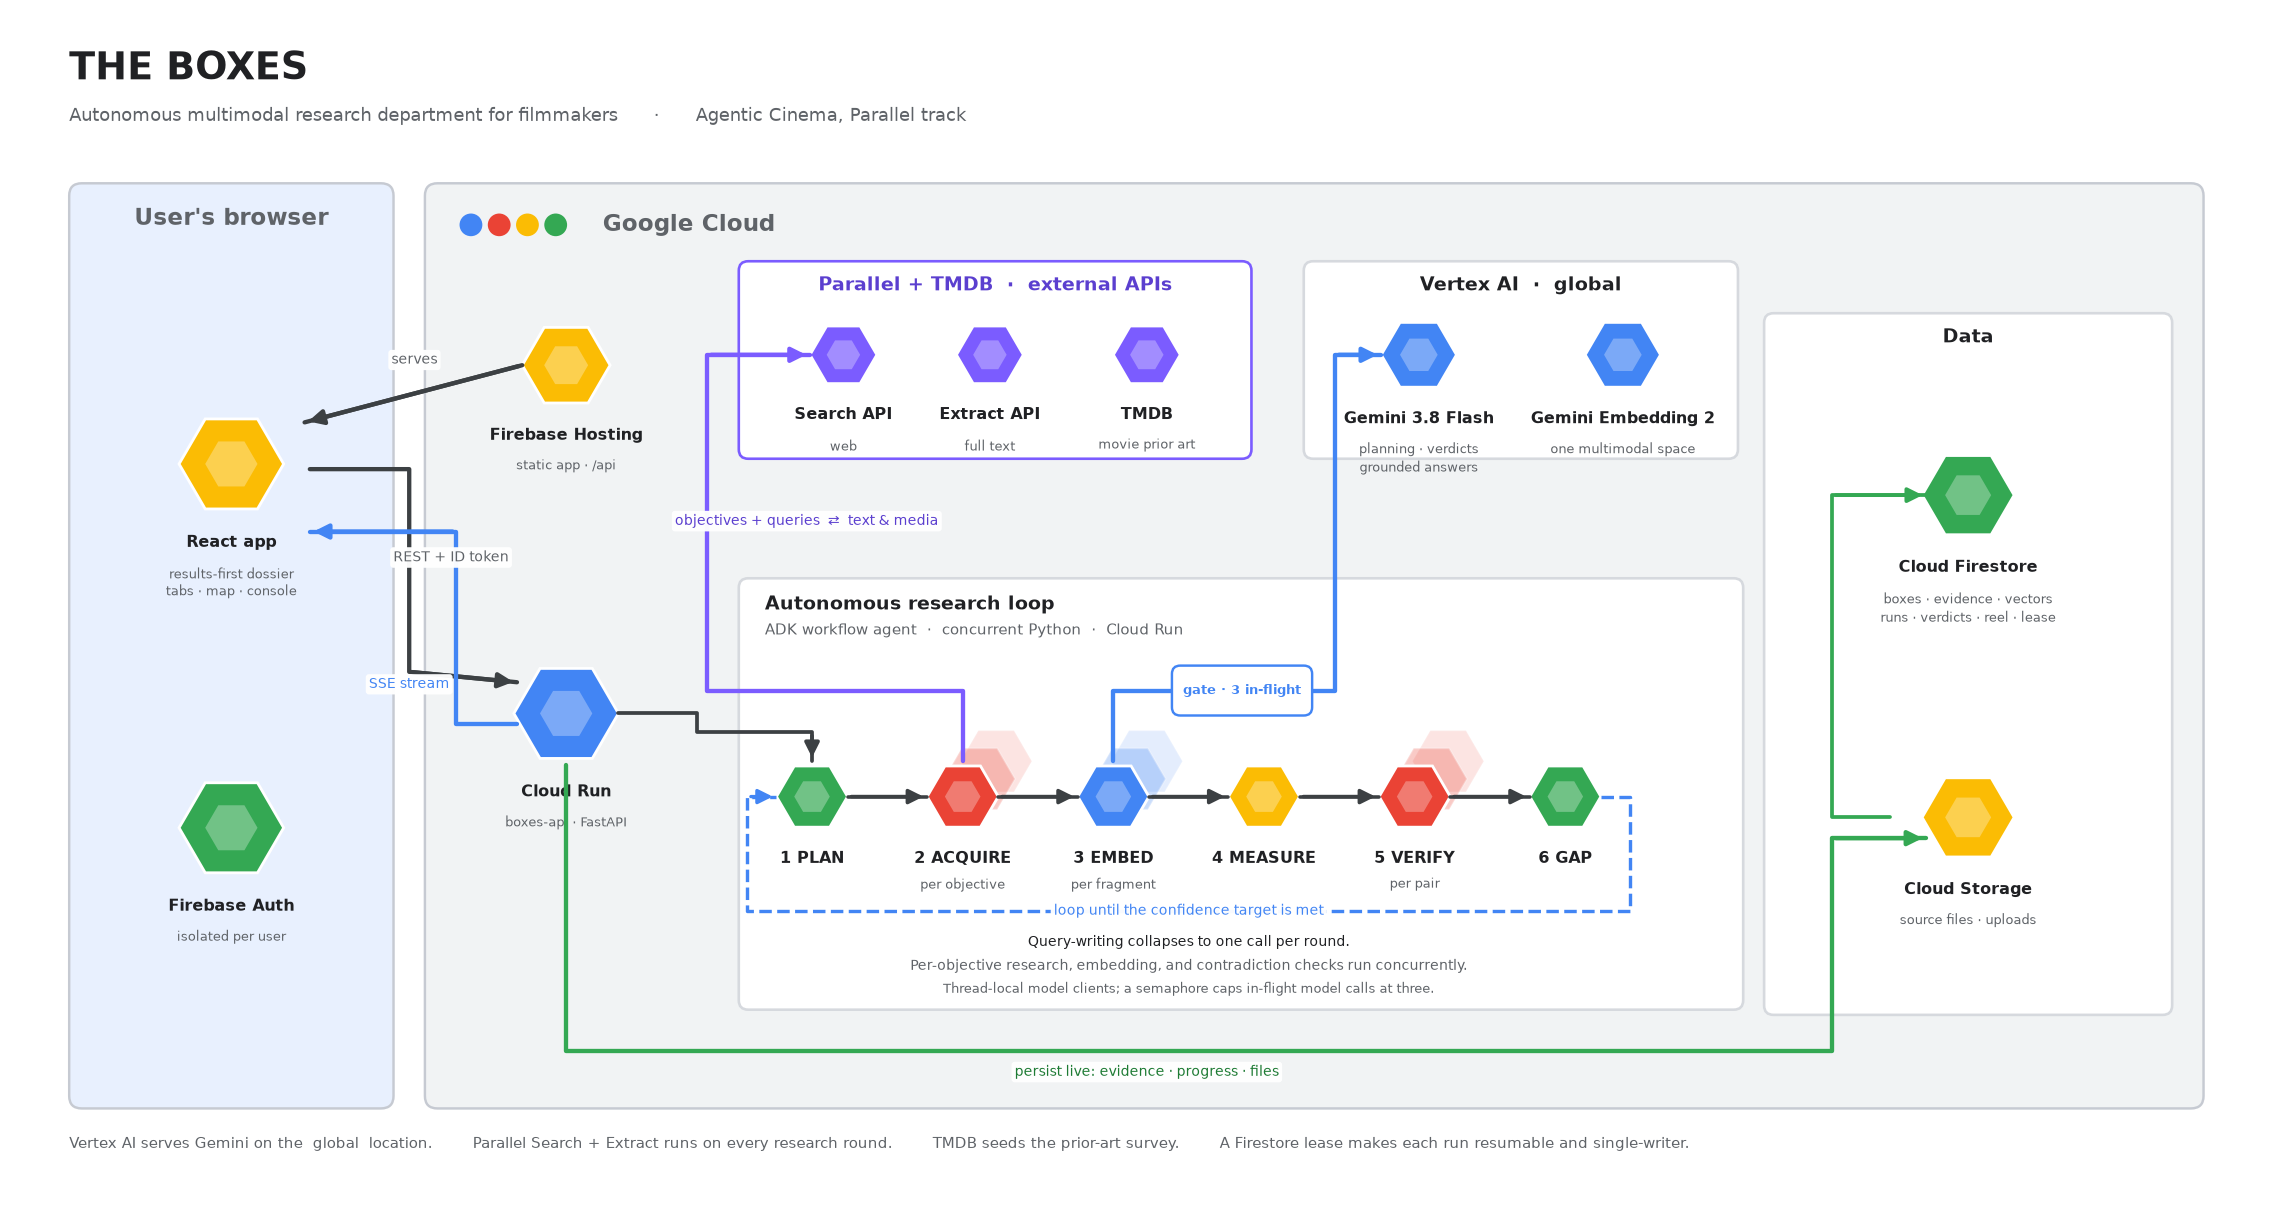
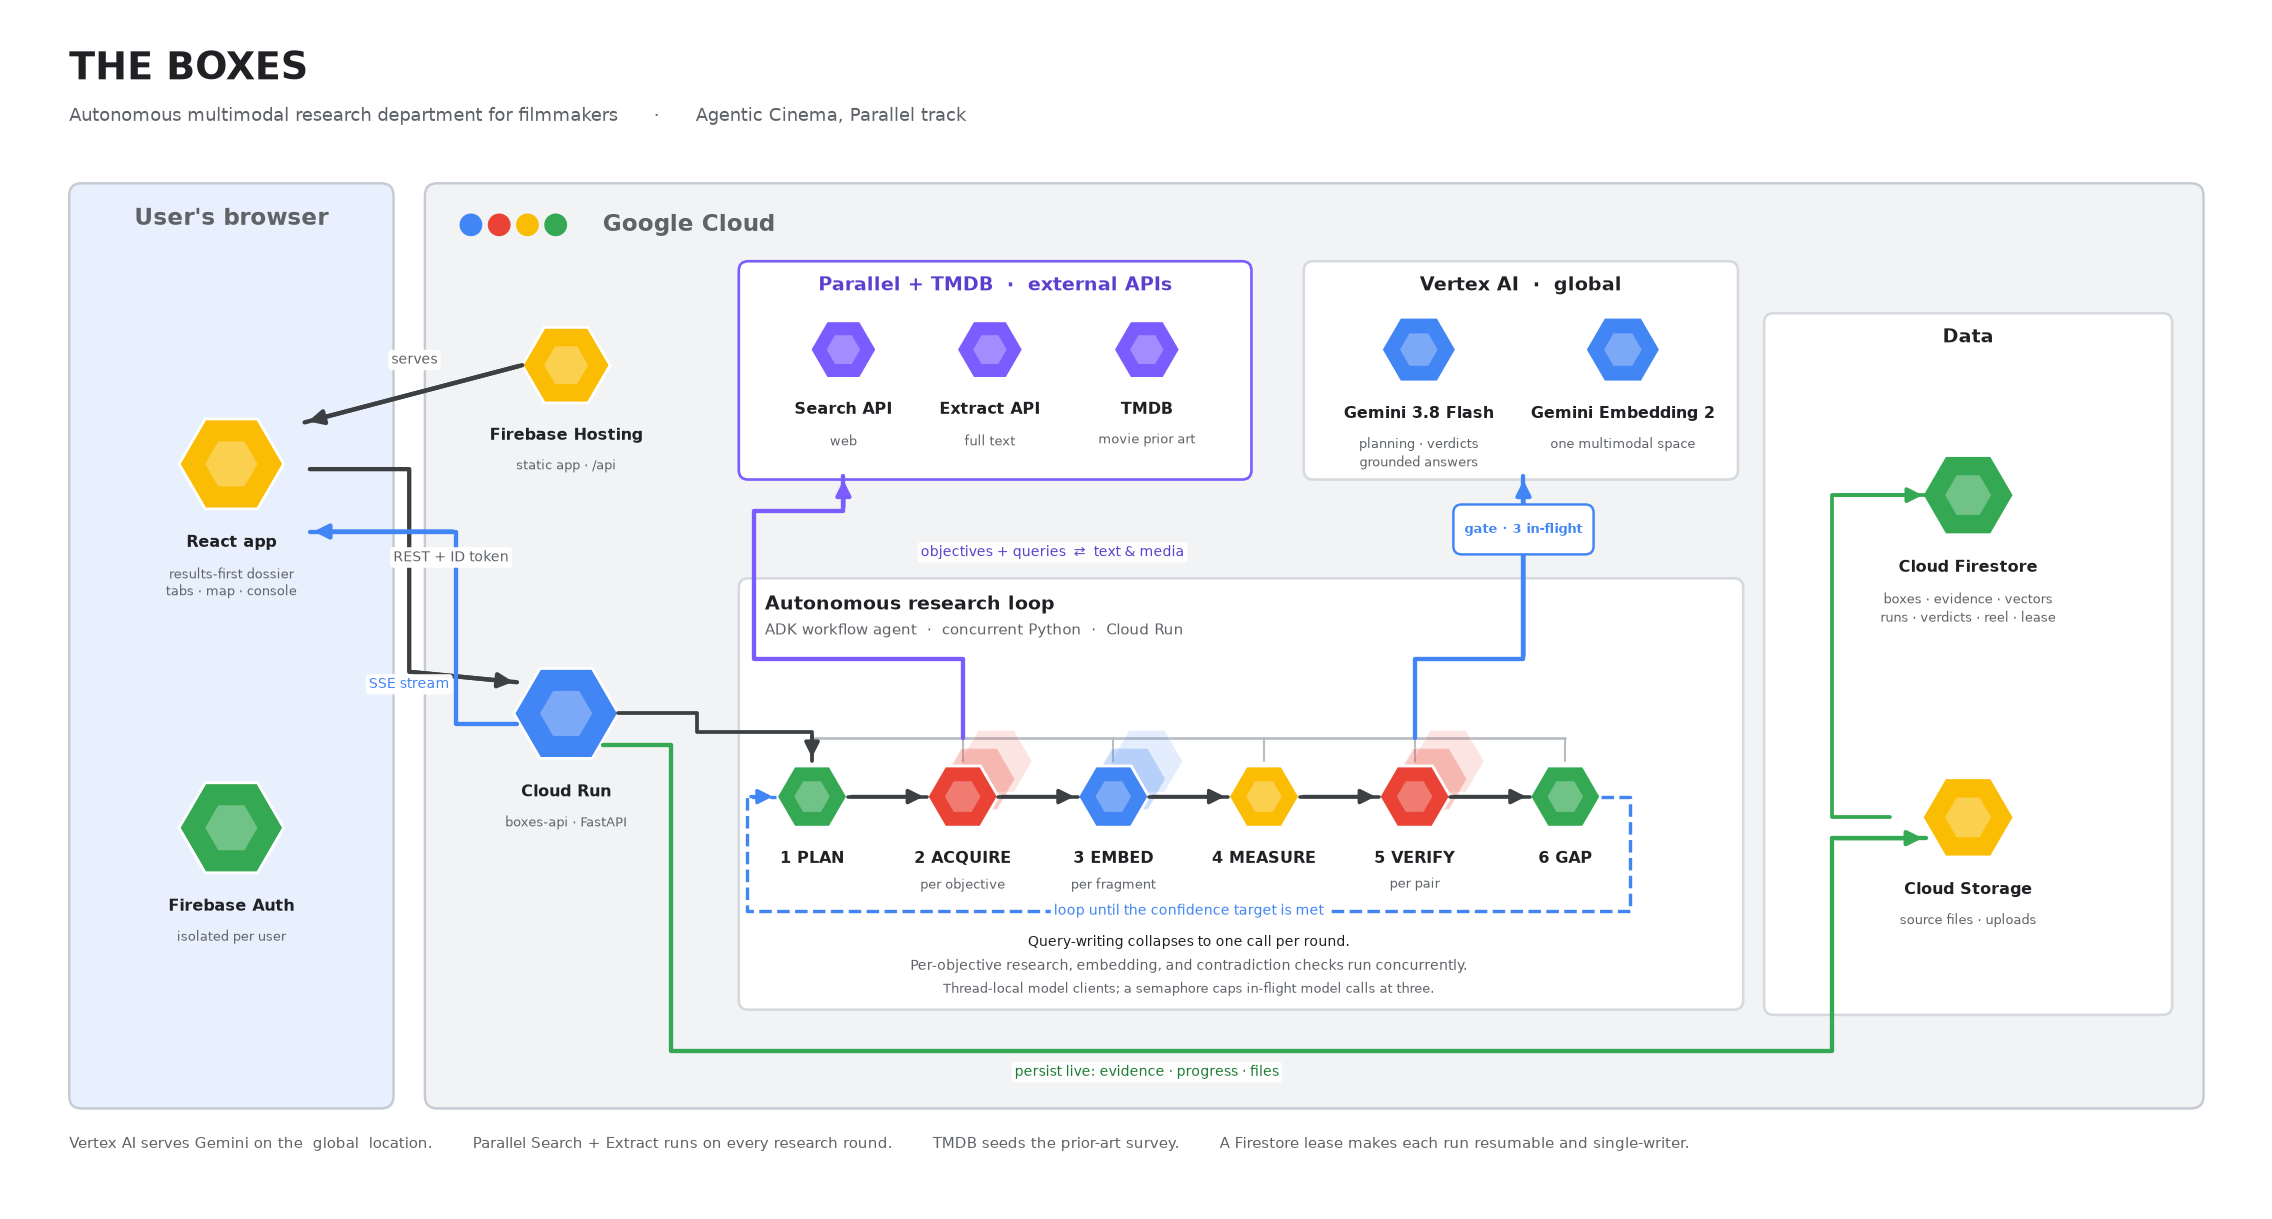
Architecture diagram: fix Cloud Run label overlap, tie services to the whole loop
- The Cloud Run -> Data wire exited straight down through the tile's own
  label. It now leaves the right edge and drops clear of the text.
- A collector bar runs along the top of the six loop steps. The Parallel
  and Vertex risers come off that bar, so they read as serving every
  step, not one node.
- Raised the top-strip tiles so "grounded answers" sits inside the
  Vertex AI box.

diff --git a/docs/architecture.py b/docs/architecture.py
@@ -83,13 +83,13 @@ tile(5.05, 7.85, "Firebase Hosting", "static app · /api", color=YELLOW, r=0.42)
 tile(5.05, 4.5, "Cloud Run", "boxes-api · FastAPI", color=BLUE, r=0.5)
 
 # top strip: external APIs + Vertex AI
-cluster(6.7, 6.95, 4.9, 1.9, "Parallel + TMDB  ·  external APIs", ec=PURPLE, tc="#5B3FCF")
-tile(7.7, 7.95, "Search API", "web", color=PURPLE, r=0.32)
-tile(9.1, 7.95, "Extract API", "full text", color=PURPLE, r=0.32)
-tile(10.6, 7.95, "TMDB", "movie prior art", color=PURPLE, r=0.32)
-cluster(12.1, 6.95, 4.15, 1.9, "Vertex AI  ·  global")
-tile(13.2, 7.95, "Gemini 3.8 Flash", "planning · verdicts\ngrounded answers", color=BLUE, r=0.36)
-tile(15.15, 7.95, "Gemini Embedding 2", "one multimodal space", color=BLUE, r=0.36)
+cluster(6.7, 6.75, 4.9, 2.1, "Parallel + TMDB  ·  external APIs", ec=PURPLE, tc="#5B3FCF")
+tile(7.7, 8.0, "Search API", "web", color=PURPLE, r=0.32)
+tile(9.1, 8.0, "Extract API", "full text", color=PURPLE, r=0.32)
+tile(10.6, 8.0, "TMDB", "movie prior art", color=PURPLE, r=0.32)
+cluster(12.1, 6.75, 4.15, 2.1, "Vertex AI  ·  global")
+tile(13.2, 8.0, "Gemini 3.8 Flash", "planning · verdicts\ngrounded answers", color=BLUE, r=0.36)
+tile(15.15, 8.0, "Gemini Embedding 2", "one multimodal space", color=BLUE, r=0.36)
 
 # -- the loop -----------------------------------------------------
 cluster(6.7, 1.65, 9.6, 4.15, "")
@@ -128,15 +128,23 @@ ax.text(mid, 2.07, "Per-objective research, embedding, and contradiction checks 
 ax.text(mid, 1.85, "Thread-local model clients; a semaphore caps in-flight model calls at three.",
         fontsize=7.0, color=SUB, ha="center", va="center", zorder=10)
 
-# loop <-> external APIs, one channel left of the clusters
-wire([(cxs[1], ly + R), (cxs[1], 4.72), (6.4, 4.72), (6.4, 7.95), (7.7 - 0.32, 7.95)],
-     color=PURPLE, tcol="#5B3FCF", text="objectives + queries  ⇄  text & media", tp=(7.35, 6.35))
+# a collector bar along the top of the loop: every step draws on the services
+BUS_Y = ly + R + 0.22
+for cx in cxs:
+    ax.plot([cx, cx], [ly + R, BUS_Y], color="#B7BBC2", lw=1.1, zorder=4,
+            solid_capstyle="round")
+ax.plot([cxs[0], cxs[-1]], [BUS_Y, BUS_Y], color="#B7BBC2", lw=1.4, zorder=4,
+        solid_capstyle="round")
 
-# loop -> Vertex AI, through the in-flight gate
-wire([(cxs[2], ly + R), (cxs[2], 4.72), (12.4, 4.72), (12.4, 7.95), (12.84, 7.95)], color=BLUE)
-ax.add_patch(FancyBboxPatch((10.86, 4.5), 1.3, 0.44, boxstyle="round,pad=0.02,rounding_size=0.08",
+# the whole loop <-> Parallel + TMDB, risen from the collector clear of the title
+wire([(cxs[1], BUS_Y), (cxs[1], 5.02), (6.85, 5.02), (6.85, 6.45), (7.7, 6.45), (7.7, 6.78)],
+     color=PURPLE, tcol="#5B3FCF", text="objectives + queries  ⇄  text & media", tp=(9.7, 6.05))
+
+# the whole loop -> Vertex AI, metered by the in-flight gate
+wire([(cxs[4], BUS_Y), (cxs[4], 5.02), (14.2, 5.02), (14.2, 6.78)], color=BLUE)
+ax.add_patch(FancyBboxPatch((13.55, 6.05), 1.3, 0.44, boxstyle="round,pad=0.02,rounding_size=0.08",
                             fc="white", ec=BLUE, lw=1.3, zorder=9))
-ax.text(11.51, 4.72, "gate · 3 in-flight", fontsize=6.7, color=BLUE, weight="bold",
+ax.text(14.2, 6.27, "gate · 3 in-flight", fontsize=6.7, color=BLUE, weight="bold",
         ha="center", va="center", zorder=10)
 
 # right column: Data
@@ -150,8 +158,8 @@ wire([(2.6, 6.85), (3.55, 6.85), (3.55, 4.9), (4.58, 4.8)], text="REST + ID toke
 wire([(4.58, 4.4), (4.0, 4.4), (4.0, 6.25), (2.6, 6.25)],
      color=BLUE, tcol=BLUE, text="SSE stream", tp=(3.55, 4.78))
 
-# Cloud Run -> Data (bottom rail; enters the Data tiles on the left, clear of labels)
-wire([(5.05, 4.0), (5.05, 1.25), (17.15, 1.25), (17.15, 3.3), (18.05, 3.3)],
+# Cloud Run -> Data (exits the tile's right edge, clear of its label, then the bottom rail)
+wire([(5.4, 4.2), (6.05, 4.2), (6.05, 1.25), (17.15, 1.25), (17.15, 3.3), (18.05, 3.3)],
      color=GREEN, tcol="#1E7B34", text="persist live: evidence · progress · files", tp=(10.6, 1.05))
 wire([(17.7, 3.5), (17.15, 3.5), (17.15, 6.6), (18.05, 6.6)], color=GREEN, lw=2.0)
 
